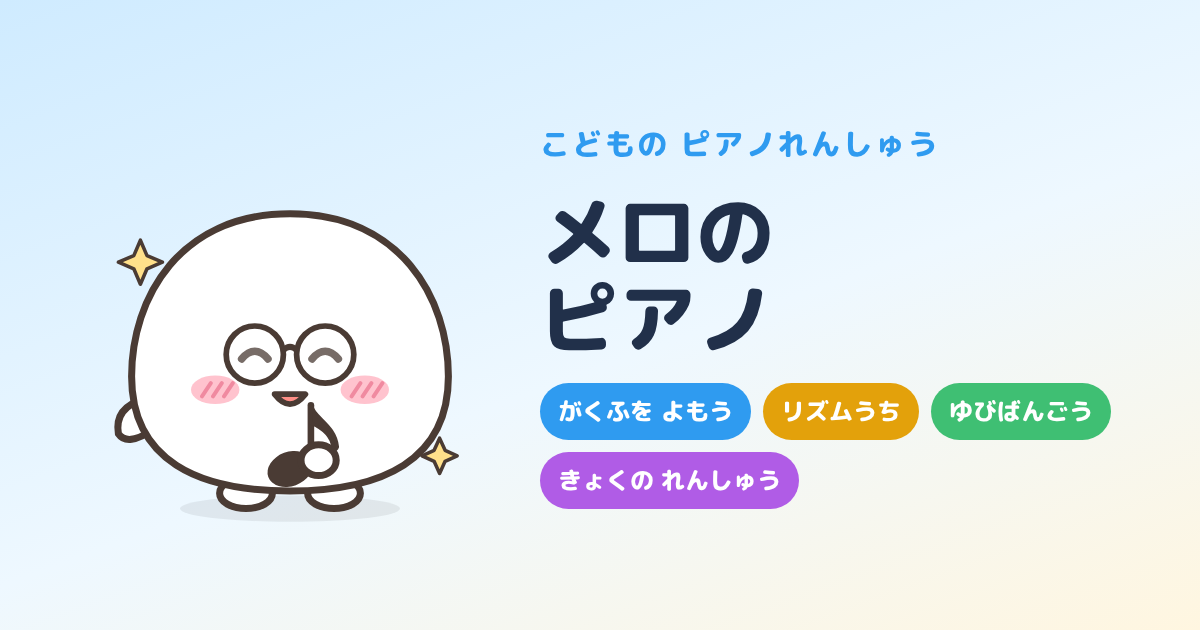
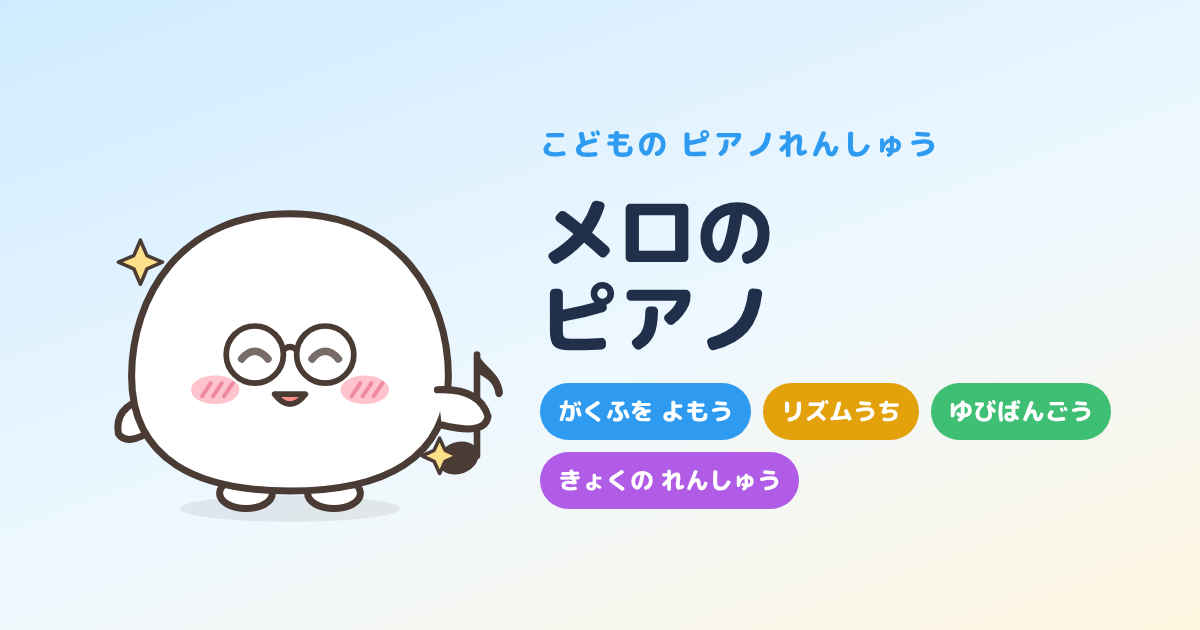
Melo: right hand back at the side, gripping the eighth note's stem
Claude-Session: https://claude.ai/code/session_01NtSss11NbYm3PZo9HB4fJ5

Changed region(s): [[0.3392, 0.5429, 0.4317, 0.754], [0.2158, 0.6333, 0.3083, 0.7841]]

diff --git a/dist/melo-piano.html b/dist/melo-piano.html
@@ -588,9 +588,10 @@ function mascotSVG(m="normal",eq=P().equip){const c=MOODCOL[m],ln="#4A3B34",gl=e
   if(eq.head==="headphones")g+=`<path d="M34 120 C34 40 166 40 166 120" fill="none" stroke="#8C9BB5" stroke-width="7"/><rect x="20" y="102" width="20" height="32" rx="9" fill="#9CCBF2" stroke="${ln}" stroke-width="2.5"/><rect x="160" y="102" width="20" height="32" rx="9" fill="#9CCBF2" stroke="${ln}" stroke-width="2.5"/>`;
   if(eq.head==="cap")g+=`<path d="M52 82 C58 40 142 40 148 82 Z" fill="#9CCBF2" stroke="${ln}" stroke-width="2.5"/><path d="M122 78 q36 0 48 9 q-28 5 -52 1z" fill="#7DB6E6" stroke="${ln}" stroke-width="2.5"/>`;
   if(eq.head==="crown")g+=`<path d="M68 74 L73 42 L87 58 L100 36 L113 58 L127 42 L132 74 Z" fill="#FFE08A" stroke="${ln}" stroke-width="2.5"/><circle cx="100" cy="62" r="4" fill="#FF9AA8"/>`;
-  // eighth note held in front of the tummy; the right arm reaches across to hold the stem
-  g+=`<path d="M109.5 168 V141" fill="none" stroke="${ln}" stroke-width="3"/><path d="M109.5 141 c1.5 6 11 9 12 19 c-.6 1.6 -1.6 1.6 -2 0 c-.6 -6 -5.5 -9 -10 -11 z" fill="${ln}" stroke="${ln}" stroke-width="1.6"/><ellipse cx="100" cy="170" rx="10.5" ry="7.8" transform="rotate(-20 100 170)" fill="${ln}"/>`;
-  g+=`<ellipse cx="113" cy="166" rx="8" ry="7" fill="${c}" stroke="${ln}" stroke-width="${w}"/>`;
+  // eighth note held in the right hand, in front of the body
+  g+=`<path d="M185 164 V118" fill="none" stroke="${ln}" stroke-width="3"/><path d="M185 118 c1.4 5.5 10 8 11 17.5 c-.6 1.5 -1.5 1.5 -1.9 0 c-.6 -5.5 -5 -8 -9.1 -10 z" fill="${ln}" stroke="${ln}" stroke-width="1.6"/><ellipse cx="176.5" cy="165" rx="9.5" ry="7.2" transform="rotate(-20 176.5 165)" fill="${ln}"/>`;
+  // right hand at its usual place, reaching a little out to grip the stem
+  g+=`<path d="M167 134 q19 -1 23 12 q-1 9 -21 4" fill="${c}" stroke="${ln}" stroke-width="${w}"/>`;
   if(eq.head==="ribbon")g+=`<path d="M140 68 l-18 -11 v22z M140 68 l18 -11 v22z" fill="#FFC2D6" stroke="${ln}" stroke-width="2.5"/><circle cx="140" cy="68" r="5" fill="#FF9DBB" stroke="${ln}" stroke-width="2"/>`;
   if(eq.head==="flower")g+=`<g transform="translate(62 72)">${[0,72,144,216,288].map(a=>`<circle cx="${(Math.cos(a*Math.PI/180)*8).toFixed(1)}" cy="${(Math.sin(a*Math.PI/180)*8).toFixed(1)}" r="6" fill="#fff" stroke="#E9A3BB" stroke-width="2"/>`).join("")}<circle r="5" fill="#FFE08A"/></g>`;
   // cheeks with little ／／ marks

diff --git a/index.html b/index.html
@@ -589,9 +589,10 @@ function mascotSVG(m="normal",eq=P().equip){const c=MOODCOL[m],ln="#4A3B34",gl=e
   if(eq.head==="headphones")g+=`<path d="M34 120 C34 40 166 40 166 120" fill="none" stroke="#8C9BB5" stroke-width="7"/><rect x="20" y="102" width="20" height="32" rx="9" fill="#9CCBF2" stroke="${ln}" stroke-width="2.5"/><rect x="160" y="102" width="20" height="32" rx="9" fill="#9CCBF2" stroke="${ln}" stroke-width="2.5"/>`;
   if(eq.head==="cap")g+=`<path d="M52 82 C58 40 142 40 148 82 Z" fill="#9CCBF2" stroke="${ln}" stroke-width="2.5"/><path d="M122 78 q36 0 48 9 q-28 5 -52 1z" fill="#7DB6E6" stroke="${ln}" stroke-width="2.5"/>`;
   if(eq.head==="crown")g+=`<path d="M68 74 L73 42 L87 58 L100 36 L113 58 L127 42 L132 74 Z" fill="#FFE08A" stroke="${ln}" stroke-width="2.5"/><circle cx="100" cy="62" r="4" fill="#FF9AA8"/>`;
-  // eighth note held in front of the tummy; the right arm reaches across to hold the stem
-  g+=`<path d="M109.5 168 V141" fill="none" stroke="${ln}" stroke-width="3"/><path d="M109.5 141 c1.5 6 11 9 12 19 c-.6 1.6 -1.6 1.6 -2 0 c-.6 -6 -5.5 -9 -10 -11 z" fill="${ln}" stroke="${ln}" stroke-width="1.6"/><ellipse cx="100" cy="170" rx="10.5" ry="7.8" transform="rotate(-20 100 170)" fill="${ln}"/>`;
-  g+=`<ellipse cx="113" cy="166" rx="8" ry="7" fill="${c}" stroke="${ln}" stroke-width="${w}"/>`;
+  // eighth note held in the right hand, in front of the body
+  g+=`<path d="M185 164 V118" fill="none" stroke="${ln}" stroke-width="3"/><path d="M185 118 c1.4 5.5 10 8 11 17.5 c-.6 1.5 -1.5 1.5 -1.9 0 c-.6 -5.5 -5 -8 -9.1 -10 z" fill="${ln}" stroke="${ln}" stroke-width="1.6"/><ellipse cx="176.5" cy="165" rx="9.5" ry="7.2" transform="rotate(-20 176.5 165)" fill="${ln}"/>`;
+  // right hand at its usual place, reaching a little out to grip the stem
+  g+=`<path d="M167 134 q19 -1 23 12 q-1 9 -21 4" fill="${c}" stroke="${ln}" stroke-width="${w}"/>`;
   if(eq.head==="ribbon")g+=`<path d="M140 68 l-18 -11 v22z M140 68 l18 -11 v22z" fill="#FFC2D6" stroke="${ln}" stroke-width="2.5"/><circle cx="140" cy="68" r="5" fill="#FF9DBB" stroke="${ln}" stroke-width="2"/>`;
   if(eq.head==="flower")g+=`<g transform="translate(62 72)">${[0,72,144,216,288].map(a=>`<circle cx="${(Math.cos(a*Math.PI/180)*8).toFixed(1)}" cy="${(Math.sin(a*Math.PI/180)*8).toFixed(1)}" r="6" fill="#fff" stroke="#E9A3BB" stroke-width="2"/>`).join("")}<circle r="5" fill="#FFE08A"/></g>`;
   // cheeks with little ／／ marks
